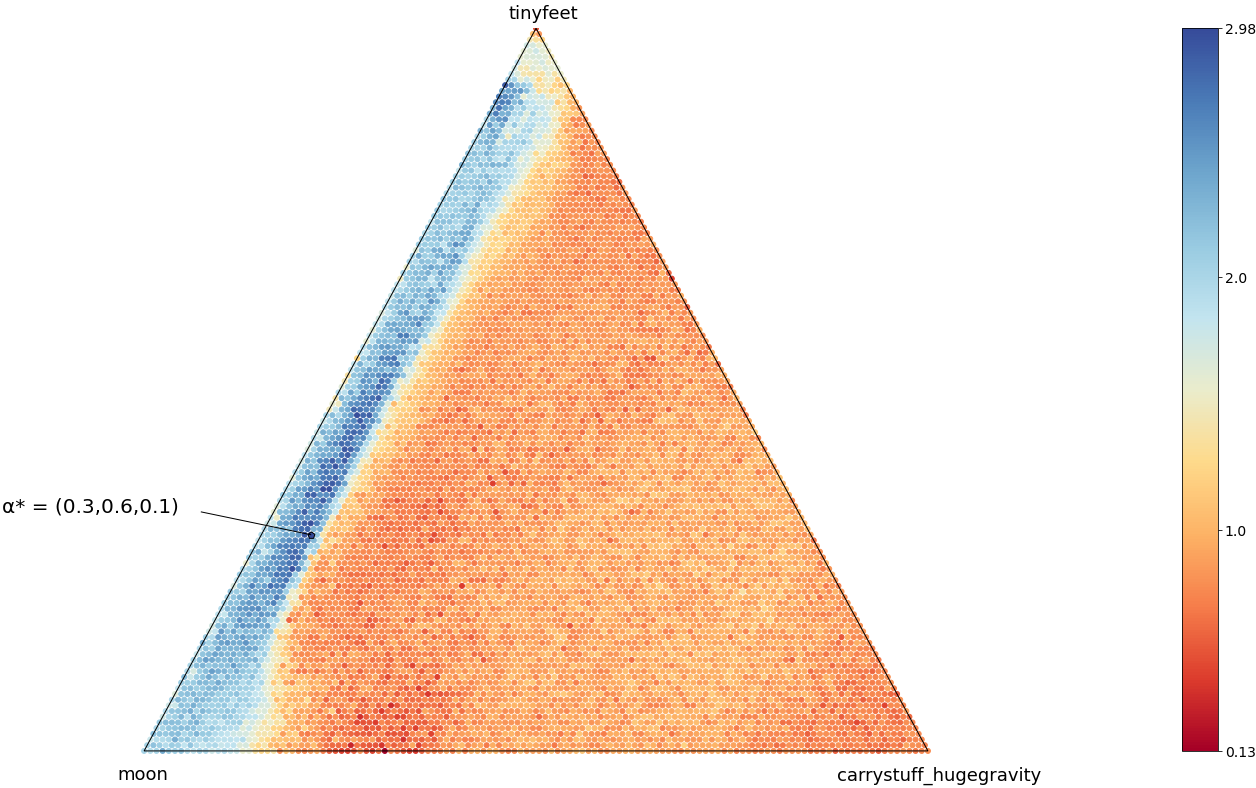
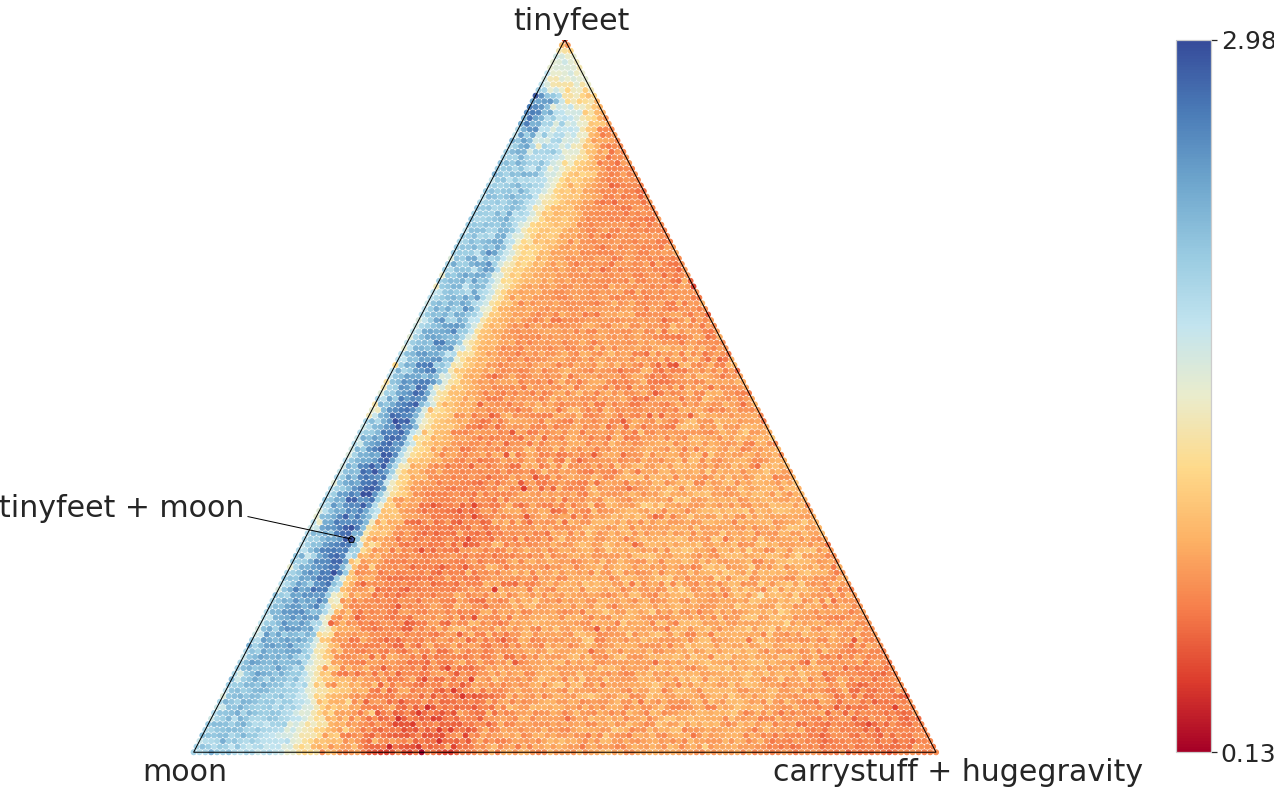
updating website

Changed region(s): [[0.0, 0.0, 0.9005, 1.0], [0.9005, 0.0305, 1.0, 0.9746]]

diff --git a/assets/styles.css b/assets/styles.css
@@ -16,10 +16,6 @@ div[data-testid="stExpander"]{
     margin: 0em 0em 0em 0em;*/
 }
 
-iframe{
-    /*border-radius:22px;*/
-}
-
 div[role="button"]{
     font-family: 'sans-serif', sans-serif !important;
     font-size: 16px;
@@ -36,7 +32,6 @@ h1{
 
 table{
     font-family: 'sans-serif', sans-serif !important;
-    font-size: 0.7vw;
+    font-size: 0.8vw;
     text-align: right !important;
-    right: -15;
 }

diff --git a/streamlit_app.py b/streamlit_app.py
@@ -47,89 +47,90 @@ def run_UI():
             """,unsafe_allow_html = True)
     st.markdown("<hr>", unsafe_allow_html = True)
     with st.expander("Scalability"):
-        row_2_1,row_2_2 = st.columns([4,2])
-        with row_2_1:
-            txt = """
-            With CSP, training and inference wallclock times are similar to the ones when learning a single policy. Yet, the number
-            of parameters is growing. We thus measure the scalability of our method with a <b style='color: #ff4b4b'>Growing Factor</b> metric.
-            It is defined as the ratio between the number of parameters of the policy at last task and at first task. We made an ablation study
-            by varying the number of tasks in a scenario (the composability one, on HalfCheetah) and measuring how much it grows compared to the naive - but strong - "fine-tune and clone"
-            baseline that we call FT-N.
-            <b style='color: #ff4b4b'>CSP maintains both strong performance and low memory cost</b> even as the number of tasks increases. 
-            In contrast, FT-N’s growing factor scales linearly, which makes it impractical for long task sequences.
-            """
-            st.markdown("<div style='text-align: justify'>"+txt+"</div>", unsafe_allow_html = True)
+        
 
-        with row_2_2:
-            _df = {
-                "method":["CSP","CSP","CSP","FT-N","FT-N","FT-N","CSP","CSP","CSP","FT-N","FT-N","FT-N","CSP","CSP","CSP","FT-N","FT-N","FT-N"],
-                "nb_tasks":[12,12,12,12,12,12,8,8,8,8,8,8,4,4,4,4,4,4],
-                "perf":[1.38,1.52,1.4,1.41,1.42,1.38,1.45,1.45,1.42,1.6,1.44,1.41,1.49,1.37,1.25,1.34,1.41,1.74],
-                "memory":[4,4,5,12,12,12,5,4,6,8,8,8,4.0,3.0,3.0,4,4,4]
-            }
-            df = pd.DataFrame(_df)
-            sns.set_theme(style="darkgrid")
-            plt.rcParams['savefig.facecolor']='#44aa9900'
-            plt.rcParams['axes.facecolor']='#44aa9900'
-            plt.rcParams['legend.facecolor']='white'
-            #plt.rcParams['grid.color']='black'
-            fig, ax = plt.subplots()
-            sns.lineplot(ax = ax,x="nb_tasks",y="perf",style="method",data=_df,err_style="bars",ci=90, color="#44aa99",linewidth=5)
-            sns.scatterplot(ax = ax, data=df[df["method"] == "FT-N"].groupby("nb_tasks").mean()["perf"],color="#44aa99", marker="o",s = 250)
-            sns.scatterplot(ax = ax, data=df[df["method"] == "CSP"].groupby("nb_tasks").mean()["perf"],color="#44aa99", marker="o",s = 250)
-            ax.legend(loc="lower right")
-            ax.set_ylabel("Average Performance", labelpad=8.,fontsize=20,font = "Trebuchet MS")
-            ax.set_ylim(0.,1.55)
-            ax.set_xlabel("Number of Tasks", labelpad=11.,fontsize=20,font = "Trebuchet MS")
-            ax2 = ax.twinx()
-            sns.lineplot(x="nb_tasks",y="memory",style="method",data=_df,color="#ff4b4b",linewidth=5,ci=90,err_style="bars")
-            sns.scatterplot(ax = ax2, data=df[df["method"] == "FT-N"].groupby("nb_tasks").mean()["memory"],color="#ff4b4b", marker="o",s = 250)
-            sns.scatterplot(ax = ax2, data=df[df["method"] == "CSP"].groupby("nb_tasks").mean()["memory"],color="#ff4b4b", marker="o",s = 250)
-            ax2.set_ylabel("Growing Factor",rotation=270,labelpad=25., fontsize=20,font = "Trebuchet MS")
-            ax2.set_ylim(1,13)
-            ax2.grid(False)
-            ax2.legend(handles=[Line2D([], [], marker='_', color="#44aa99", label='Average Performance'), Line2D([], [], marker='_', color="#ff4b4b", label='Growing Factor')],loc="lower left")
-            ax2.set_xticklabels(["",4,"","","",8,"","","",12], fontsize=20)
-            plt.tight_layout()
+        txt = """
+        With CSP, training and inference wallclock times are similar to the ones when learning a single policy. Yet, the number
+        of parameters is growing. We thus measure the scalability of our method with a <b style='color: #ff4b4b'>Growing Factor</b> metric.
+        It is defined as the ratio between the number of parameters of the policy at last task and at first task. We made an ablation study
+        by varying the number of tasks in a scenario (the composability one, on HalfCheetah) and measuring how much it grows compared to the naive - but strong - "fine-tune and clone"
+        baseline that we call FT-N.
+        <b style='color: #ff4b4b'>CSP maintains both strong performance and low memory cost</b> even as the number of tasks increases. 
+        In contrast, FT-N’s growing factor scales linearly, which makes it impractical for long task sequences.
+        """
+        st.markdown("<div style='text-align: justify'>"+txt+"</div>", unsafe_allow_html = True)
+
+        _df = {
+            "method":["CSP","CSP","CSP","FT-N","FT-N","FT-N","CSP","CSP","CSP","FT-N","FT-N","FT-N","CSP","CSP","CSP","FT-N","FT-N","FT-N"],
+            "nb_tasks":[12,12,12,12,12,12,8,8,8,8,8,8,4,4,4,4,4,4],
+            "perf":[1.38,1.52,1.4,1.41,1.42,1.38,1.45,1.45,1.42,1.6,1.44,1.41,1.49,1.37,1.25,1.34,1.41,1.74],
+            "memory":[4,4,5,12,12,12,5,4,6,8,8,8,4.0,3.0,3.0,4,4,4]
+        }
+        df = pd.DataFrame(_df)
+        sns.set_theme(style="darkgrid")
+        plt.rcParams['savefig.facecolor']='#44aa9900'
+        plt.rcParams['axes.facecolor']='#44aa9900'
+        plt.rcParams['grid.color']='.8'
+        plt.rcParams['axes.edgecolor']='.8'
+        plt.rcParams['legend.facecolor']='white'
+        #plt.rcParams['grid.color']='black'
+        fig, ax = plt.subplots()
+        sns.lineplot(ax = ax,x="nb_tasks",y="perf",style="method",data=_df,err_style="bars",ci=90, color="#44aa99",linewidth=5)
+        sns.scatterplot(ax = ax, data=df[df["method"] == "FT-N"].groupby("nb_tasks").mean()["perf"],color="#44aa99", marker="o",s = 250)
+        sns.scatterplot(ax = ax, data=df[df["method"] == "CSP"].groupby("nb_tasks").mean()["perf"],color="#44aa99", marker="o",s = 250)
+        ax.legend(loc="lower right")
+        ax.set_ylabel("Average Performance", labelpad=8.,fontsize=14,font = "sans_serif")
+        ax.set_ylim(0.,1.55)
+        ax.set_xlabel("Number of Tasks", labelpad=11.,fontsize=14,font = "sans_serif")
+        ax2 = ax.twinx()
+        sns.lineplot(x="nb_tasks",y="memory",style="method",data=_df,color="#ff4b4b",linewidth=5,ci=90,err_style="bars")
+        sns.scatterplot(ax = ax2, data=df[df["method"] == "FT-N"].groupby("nb_tasks").mean()["memory"],color="#ff4b4b", marker="o",s = 250)
+        sns.scatterplot(ax = ax2, data=df[df["method"] == "CSP"].groupby("nb_tasks").mean()["memory"],color="#ff4b4b", marker="o",s = 250)
+        ax2.set_ylabel("Growing Factor",rotation=270,labelpad=25., fontsize=14,font = "sans_serif")
+        ax2.set_ylim(1,13)
+        ax2.grid(False)
+        ax2.legend(handles=[Line2D([], [], marker='_', color="#44aa99", label='Average Performance'), Line2D([], [], marker='_', color="#ff4b4b", label='Growing Factor')],loc="lower left")
+        ax2.set_xticklabels(["",4,"","","",8,"","","",12], fontsize=20)
+        plt.tight_layout()
+        _,row_2_1,_ = st.columns([2,3,2])
+        with row_2_1:
             st.pyplot(fig)
     with st.expander("Plasticity"):
-        row_3_1,row_3_2 = st.columns([4,3])
+        txt = """
+        In continual learning, plasticity can been seen as the <b style='color: #ff4b4b'>ability of a system to acquire additional knowledge very quickly</b>. When growing, policies included in the subspace inherits from previous tasks knowledge, and can leverage these knowledge combinations to peform better on unseen tasks. 
+        Indeed, as each anchor network acts like a "center of attraction", it induces a wide <b style='color: #ff4b4b'>functional diversity</b> in the subspace. 
+        It is particularly striking when facing composable scenarios, where 2 tasks previously seen are combined. The figure below presents the reward landscape of the subspace
+        on a HalfCheetah task that combines two particular variations of the environment (tinyfeet + moon). The upper anchor and the lower left anchor has respectively been trained on the  tinyfeet task and 
+        the moon task. Interestingly, it already contains a policy that reaches a <b style='color: #ff4b4b'>performance of 2.98</b> (i.e. 3 times better than a policy learned from scratch with a budget of 1e6 interactions).
+        """
+        st.markdown("<div style='text-align: justify'>"+txt+"</div>", unsafe_allow_html = True)
+        _,row_3_1,_ = st.columns([2,3,2])
         with row_3_1:
-            txt = """
-            In continual learning, plasticity can been seen as the <b style='color: #ff4b4b'>ability of a system to acquire additional knowledge very quickly</b>. When growing, policies included in the subspace inherits from previous tasks knowledge, and can leverage these knowledge combinations to peform better on unseen tasks. 
-            Indeed, as each anchor network acts like a "center of attraction", it induces a wide <b style='color: #ff4b4b'>functional diversity</b> in the subspace. 
-            It is particularly striking when facing composable scenarios, where 2 tasks previously seen are combined. The figure on the right presents the reward landscape of the subspace
-            on a HalfCheetah task that combines two particular variations of the environment (moon + tinyfeet). The upper anchor and the lower left anchor has respectively been trained on the  moon task and 
-            the tinyfeet task. Therefore, it already contains a policy that reaches a <b style='color: #ff4b4b'>performance of 3</b> (i.e. 3 times better than a policy learned from scratch, with a budget of 1e6 interactions).
-            """
-            st.markdown("<div style='text-align: justify'>"+txt+"</div>", unsafe_allow_html = True)
-
-        with row_3_2:
             st.image("data/images/plasticity.png")
     with st.expander("Stability"):
-        row_4_1,_,row_4_2 = st.columns([4,1,4])
+
+        txt = """
+        Contrary to methods like EWC, CSP cannot suffer from <b style='color: #ff4b4b'>catastrophic forgetting</b>. Indeed, at the end of a training task
+        the best policy is stored as a convex combination of the current subspace. At evaluation time, if the task id is given to the model,
+        it uses this convex combination toinstantiate an optimal policy and rollout a trajectory. The table below shows that - just as linear growing methods -
+        <b style='color: #ff4b4b'>CSP has 0. forgetting</b>, while it is growing sublinearly (see scalability). Results are aggregated across 4 of our scenarios based on HalfCheetah, each consisting of a
+        sequence of 8 tasks (see Designing Scenarios).
+        """
+        st.markdown("<div style='text-align: justify'>"+txt+"</div>", unsafe_allow_html = True)
+
+        _,row_4_1,_ = st.columns([2,3,2])
         with row_4_1:
             txt = """
-            Contrary to methods like EWC, CSP cannot suffer from <b style='color: #ff4b4b'>catastrophic forgetting</b>. Indeed, at the end of a training task
-            the best policy is stored as a convex combination of the current subspace. At evaluation time, if the task id is given to the model,
-            it uses this convex combination toinstantiate an optimal policy and rollout a trajectory. The table on the right shows that - just as linear growing methods -
-            <b style='color: #ff4b4b'>CSP has 0. forgetting</b>, while it is growing sublinearly (see scalability). Results are aggregated across 4 of our scenarios based on HalfCheetah, each consisting of a
-            sequence of 8 tasks (see Designing Scenarios).
-            """
-            st.markdown("<div style='text-align: justify'>"+txt+"</div>", unsafe_allow_html = True)
-
-        with row_4_2:
-            txt = """
-| Method | Performance |Transfer|<b style='color: #ff4b4b'>Forgetting</b>   | Growing factor |
-|--------|-------------|-------------|--------------|----------------|
-| FT-1   | 0.75 ± 0.16 | 0.20 ± 0.14 |-0.45 ± 0.07|              1 |
-| FT-L2  | 0.81 ± 0.09 | 0.09 ± 0.14 |-0.28 ± 0.1|              2 |
-| EWC    | 0.98 ± 0.14 | 0.14 ± 0.11 |-0.28 ± 0.1|              3 |
-| PNN    | 1.06 ± 0.17 | 0.06 ± 0.18 |0.0 ± 0.0|           47.3 |
-| SAC-N  | 1.0 ± 0.00  | 0.0 ± 0.00  |0.0 ± 0.0|              8 |
-| FT-N   | 1.22 ± 0.1  | 0.22 ± 0.10 |0.0 ± 0.0|              8 |
-| <b style='color: #ff4b4b'>CSP</b> | 1.32 ± 0.07 | 0.31 ± 0.07 |<b style='color: #ff4b4b'>0.00 ± 0.0</b>|      4.0 ± 0.7 |
-                  """
+    | Method | Performance |Transfer|<b style='color: #ff4b4b'>Forgetting</b>   | Growing factor |
+    |--------|-------------|-------------|--------------|----------------|
+    | FT-1   | 0.75 ± 0.16 | 0.20 ± 0.14 |-0.45 ± 0.07|              1 |
+    | FT-L2  | 0.81 ± 0.09 | 0.09 ± 0.14 |-0.28 ± 0.1|              2 |
+    | EWC    | 0.98 ± 0.14 | 0.14 ± 0.11 |-0.28 ± 0.1|              3 |
+    | PNN    | 1.06 ± 0.17 | 0.06 ± 0.18 |0.0 ± 0.0|           47.3 |
+    | SAC-N  | 1.0 ± 0.00  | 0.0 ± 0.00  |0.0 ± 0.0|              8 |
+    | FT-N   | 1.22 ± 0.1  | 0.22 ± 0.10 |0.0 ± 0.0|              8 |
+    | <b style='color: #ff4b4b'>CSP</b> | 1.32 ± 0.07 | 0.31 ± 0.07 |<b style='color: #ff4b4b'>0.00 ± 0.0</b>|      4.0 ± 0.7 |
+                    """
             st.markdown(txt, unsafe_allow_html = True)
         
 if __name__ == "__main__":

diff --git a/pages/02_🔬_Visualizing_the_Subspaces.py b/pages/02_🔬_Visualizing_the_Subspaces.py
@@ -13,11 +13,13 @@ scenarios = {
 
 #st.title("Visualizing the subspaces"
 st.markdown("<h3 style='text-align: left';>Visualizing the reward landscapes of the Subspaces</h3>",unsafe_allow_html = True)
+st.markdown("<hr>", unsafe_allow_html = True)
 row_0_1,row_0_2 = st.columns([1,3])
 with row_0_1:
-    benchmark = st.selectbox('',["Forgetting_scenario","Transfer_scenario","Distraction_scenario","Composability_scenario"],index=0)
+    benchmark = st.selectbox('',["Forgetting_scenario","Transfer_scenario","Distraction_scenario","Composability_scenario"],index=2)
     n_anchors = st.slider('number of anchors:', 3, 4, 3)
-    task = st.selectbox('Task',range(len(scenarios[benchmark])),format_func=lambda x: scenarios[benchmark][x], index=0)
+    task = st.selectbox('Task',range(len(scenarios[benchmark])),format_func=lambda x: scenarios[benchmark][x], index=1)
+    landscape = st.radio('Landscape value',("Reward","Q-value"))
 
     #path = "/private/home/jbgaya/Work/crl_subspace/data/halfcheetah_benchmark3/2/eval.pkl"
     #task = 0
@@ -33,7 +35,7 @@ with row_0_2:
     path = "data/landscapes/"+benchmark+"/"+str(n_anchors)+"_anchors.pkl"
     with open(path, "rb") as f:
         data = pickle.load(f)["task_"+str(task)]
-    alphas, rewards = data["alphas"].cpu(),data["rewards"].cpu()
+    alphas, rewards = data["alphas"].cpu(),data["values1" if landscape == "Q-value" else "rewards"].cpu()
     display_kshot(n_anchors,alphas,rewards,labels = scenarios[benchmark])
 
     #alphas, rewards, q1 = data["alphas"],data["rewards"],data["values1"]

diff --git a/pages/01_⚙_Designing_Scenarios.py b/pages/01_⚙_Designing_Scenarios.py
@@ -50,6 +50,12 @@ def run():
             This intractable method is yet <b style='color: #ff4b4b'>outperformed by CSP</b> in the majority of the scenarios we designed. A demo of the task sequences solved by an optimal policy
             is available for each Halfcheetah scenario.
             </div>''', unsafe_allow_html = True)
+        st.markdown('''
+            <div style='text-align: justify; padding: 2em 2em 2em 0';>
+            The figure on the right shows the <b style='color: #ff4b4b'>transfer table</b> we generated to design transfer
+            scenarios. A single policy is trained on a first task and then fine-tuned on the second one. The score is normalized by the average score obtained when learning a policy from
+            scratch. Scores below 0 show a negative transfer. In this case, the first task is acting like a disctraction task.
+            </div>''', unsafe_allow_html = True)
 
 
 
